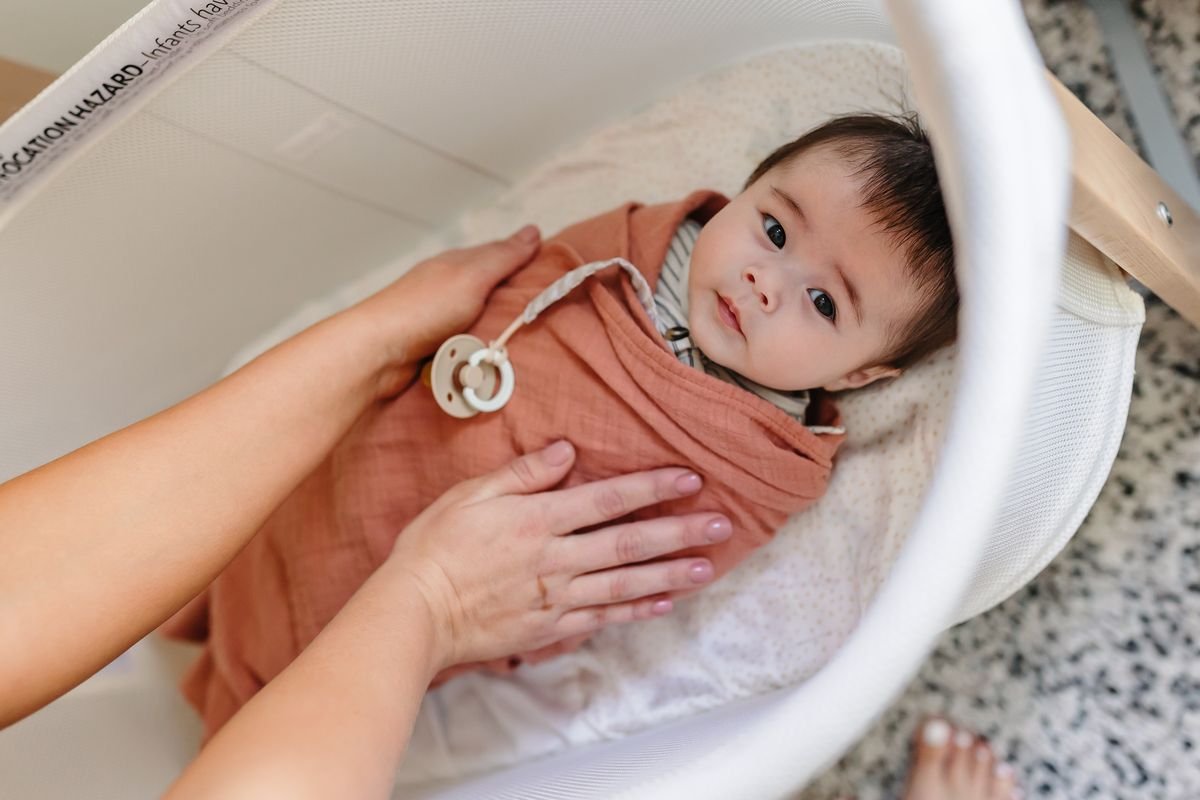
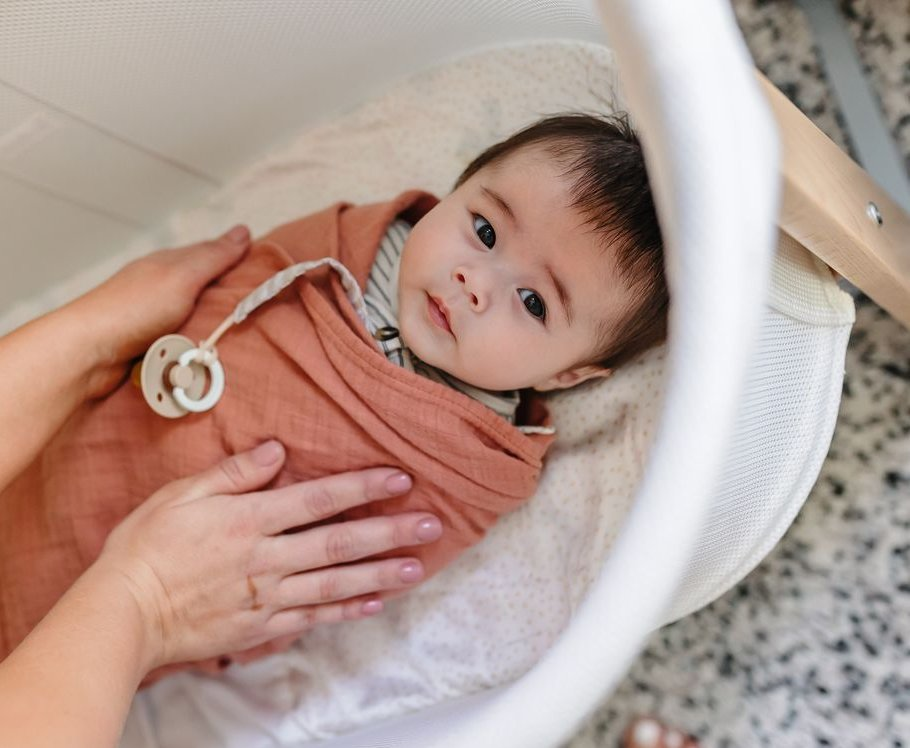
Crop SUFFOCATION HAZARD label out of bassinet photo; update Resources image dims + alt

diff --git a/src/routes/resources.tsx b/src/routes/resources.tsx
@@ -117,11 +117,11 @@ function ResourcesPage() {
           <div className="overflow-hidden rounded-2xl shadow-[0_24px_60px_-30px_rgba(74,63,57,0.4)] max-w-3xl mx-auto">
             <img
               src="/images/ashlee-brand-0077.jpg"
-              alt="Top-down view of hands settling a swaddled newborn into a bassinet — safe sleep and responsive care"
+              alt="Postpartum doula Ashlee McKenzie settling a swaddled newborn into a bassinet for safe sleep in a calm San Francisco home"
               loading="lazy"
               decoding="async"
-              width="1200"
-              height="800"
+              width="910"
+              height="748"
               className="w-full h-auto object-cover"
             />
           </div>
